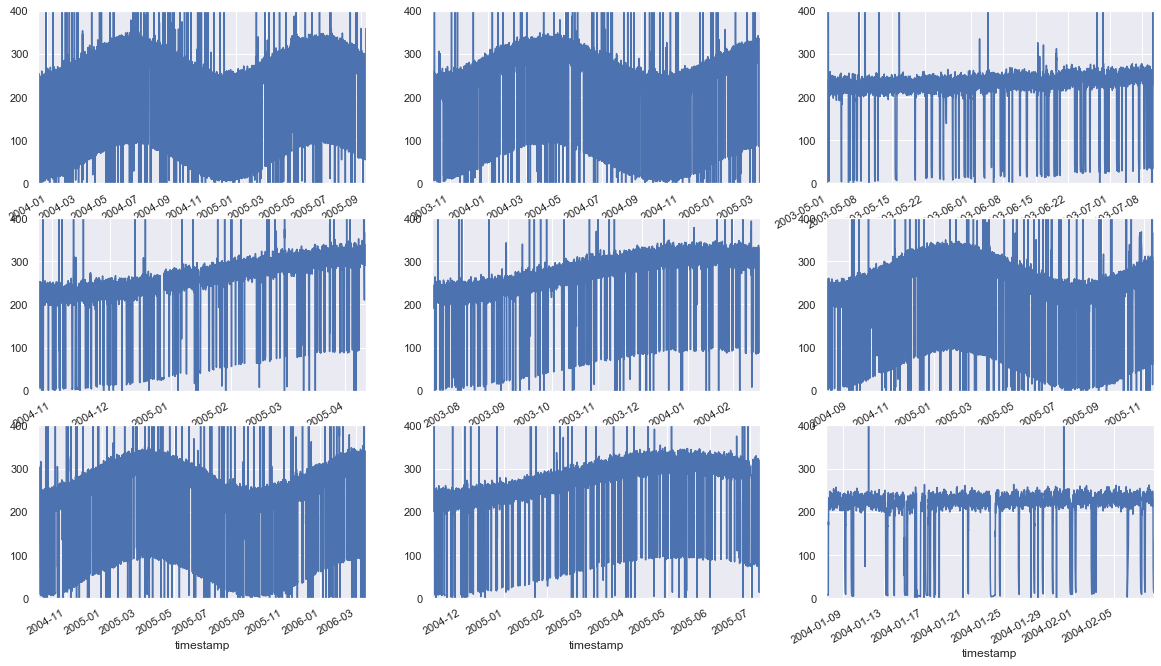
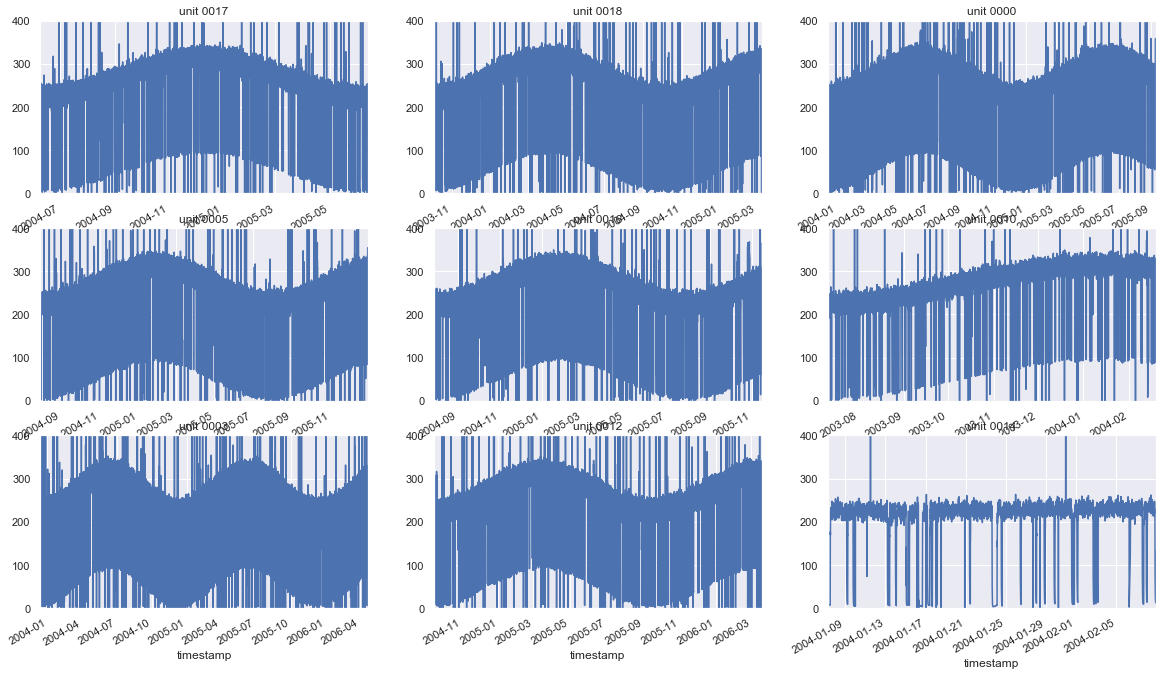
update images and references

diff --git a/README.md b/README.md
@@ -2,6 +2,8 @@ A data science project on the widget maintenance dataset of ExampleCo, Inc to ex
 
 ## Feature exploring
 
+Take a look at feature values and their distributions
+
 - rpm of unit 0010:
 ![rpm_10](https://github.com/telenovelachuan/predictive_widget_maintenance/blob/master/reports/figures/feature_visualization/rpm_10.png)
 
@@ -19,6 +21,8 @@ A data science project on the widget maintenance dataset of ExampleCo, Inc to ex
  
 -  Pearson correlation between features of various units
 ![pearson_corrs](https://github.com/telenovelachuan/predictive_widget_maintenance/blob/master/reports/figures/feature_visualization/Pearson_correlations.png)
+
+[Click me for more details of feature visualization work](https://github.com/telenovelachuan/predictive_widget_maintenance/blob/master/notebooks/feature%20visualization.ipynb)
 
 ## Excluding Anomalies
 
@@ -40,6 +44,9 @@ Apply the first method and exclude the anomalies in all units. Most of the outli
 
 ![comp_22](https://github.com/telenovelachuan/predictive_widget_maintenance/blob/master/reports/figures/anomaly_detection/comparison_22.png)
 
+[Click me for more details of anomaly detection work](https://github.com/telenovelachuan/predictive_widget_maintenance/blob/master/references/anomaly_detection.md)
+
+
 ## Clustering
 
 Try clustering the unit data samples on different granularities and visualizing the output.
@@ -55,21 +62,26 @@ Try clustering the unit data samples on different granularities and visualizing 
 Training set clusters generated by KMeans are as below.
 ![kmeans_train](https://github.com/telenovelachuan/predictive_widget_maintenance/blob/master/reports/figures/clustering/kmeans_train.png)
 
-It can be obviously observed that there are 2 cluster for the stats description.
+It can be observed that there are 2 cluster for the stats description.
 
-	- cluster 1: 0000, 0001, 0003, 0004, 0005, 0006, 0007, 0010, 0011, 0012, 0016, 0017, 0018, 0019
+	cluster 1: 0000, 0001, 0003, 0004, 0005, 0006, 0007, 0010, 0011, 0012, 0016, 0017, 0018, 0019
 
-	- cluster 2: 0002, 0008, 0009, 0014, 0015
+	cluster 2: 0002, 0008, 0009, 0014, 0015
 
 And finally test set joins in.
 ![kmeans_all](https://github.com/telenovelachuan/predictive_widget_maintenance/blob/master/reports/figures/clustering/kmeans_all.png)
 
 Just like training dataset, it's lucky that the test set also splits into these 2 clusters.
 
-	- cluster 1: 0020, 0021, 0022, 0024, 0025, 0026, 0027, 0028, 0029, 0030, 0031, 0032, 0033, 0034, 0035, 0036, 0037, 0038, 0039, 0040, 0041, 0042, 0043, 0044, 0045, 0046, 0047, 0048, 0049
+	cluster 1: 0020, 0021, 0022, 0024, 0025, 0026, 0027, 0028, 0029, 0030, 0031, 0032, 0033, 0034, 0035, 0036, 0037, 0038, 0039, 0040, 0041, 0042, 0043, 0044, 0045, 0046, 0047, 0048, 0049
 
-	- cluster 2: 0023
+	cluster 2: 0023
+
+[Click me for more details of clustering work](https://github.com/telenovelachuan/predictive_widget_maintenance/blob/master/references/clustering.md)
 	
+## Failure Predicting
+
+
 
 
 

diff --git a/references/clustering.md b/references/clustering.md
@@ -1,4 +1,4 @@
-# Anomaly Detection
+# Clustering
 
 Try clustering the unit data samples on different granularities and visualizing the output.
 
@@ -44,20 +44,20 @@ For KMeans with 15 clusters, the cluster sizes polarized.
 
 It can be obviously observed that there are 2 cluster for the stats description.
 
-cluster 1: 0000, 0001, 0003, 0004, 0005, 0006, 0007, 0010, 0011, 0012, 0016, 0017, 0018, 0019
+	cluster 1: 0000, 0001, 0003, 0004, 0005, 0006, 0007, 0010, 0011, 0012, 0016, 0017, 0018, 0019
 
-cluster 2: 0002, 0008, 0009, 0014, 0015
+	cluster 2: 0002, 0008, 0009, 0014, 0015
 
-cluster 3: 0013
+	cluster 3: 0013
 
 3. Run Kmeans on all the test data and train data.
 ![kmeans_all](https://github.com/telenovelachuan/predictive_widget_maintenance/blob/master/reports/figures/clustering/kmeans_all.png)
 
 Just like training dataset, it's lucky that the test set also splits into these 2 clusters.
 
-cluster 1: 0020, 0021, 0022, 0024, 0025, 0026, 0027, 0028, 0029, 0030, 0031, 0032, 0033, 0034, 0035, 0036, 0037, 0038, 0039, 0040, 0041, 0042, 0043, 0044, 0045, 0046, 0047, 0048, 0049
+	cluster 1: 0020, 0021, 0022, 0024, 0025, 0026, 0027, 0028, 0029, 0030, 0031, 0032, 0033, 0034, 0035, 0036, 0037, 0038, 0039, 0040, 0041, 0042, 0043, 0044, 0045, 0046, 0047, 0048, 0049
 
-cluster 2: 0023
+	cluster 2: 0023
 
 
 
